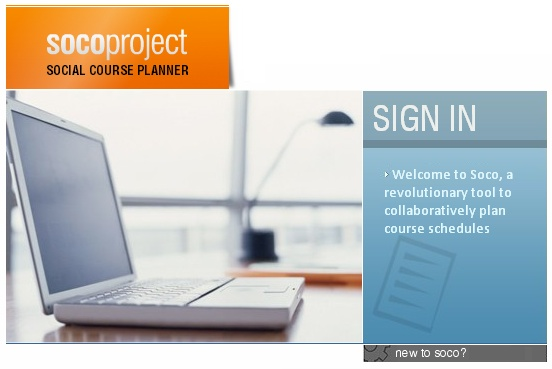
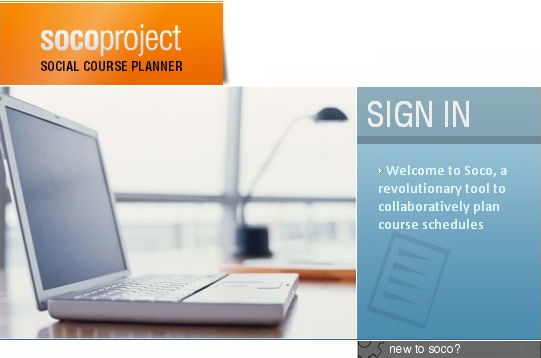
centered login page issue 186

diff --git a/public/stylesheets/login.css b/public/stylesheets/login.css
@@ -1,22 +1,84 @@
-body {
-	margin: 2em 0;
+html, body
+{
+	height: 100%;
+	margin: 0;
+	text-align: center;
+	background-color: white;
+}
+
+#distance { 
+	width:1px;
+	height:50%;
+	margin-bottom:-179px; /* half of container's height */
+	float:left;
+}
+
+#container {
+	margin: 0 auto;
+	position: relative;
+	text-align: left;
+	clear: left;
+	height: 358px;
+	width: 541px;
+	background-image: url("/images/login/socologin.jpg");
+}
+
+#form {
+	float: right;
+	margin-top: 250px;
+	text-align: right;
+	margin-right: 20px;
 }
 
 input[type=text],input[type=password] {
 	font-family:Tahoma, Verdana, Arial;
-	font-size:11px;
+	font-size: 12px;
 	color:#333333;
 	background-color:#EDF5FB;
 	border-style:solid;
 	border-width:1px;
 	border-color:#6F8B99;
-	height:20;
+	text-align: center;
+	width: 142px;
+}
+
+input[type=image]
+{
+}
+
+
+input
+{
+	clear: both;
+	display: block;
+	float: right;
+	margin-bottom: 13px;
+}
+
+
+#footer
+{
+	float: left;
 }
 
 #compatibility
 {
 	font-family: "Arial Narrow" sans-serif;
-	font-size: .6em;
-	margin-top: -81px;
-	margin-right: 180px;
+	font-size: .7em;
+	margin-top: .3em;
+	float: left;
+	text-align: center;
+	width: 360px;
+}
+
+
+#register
+{
+	float: right;
+	margin-right: 10px;
+}
+
+#register a
+{
+	color: white;
 }
